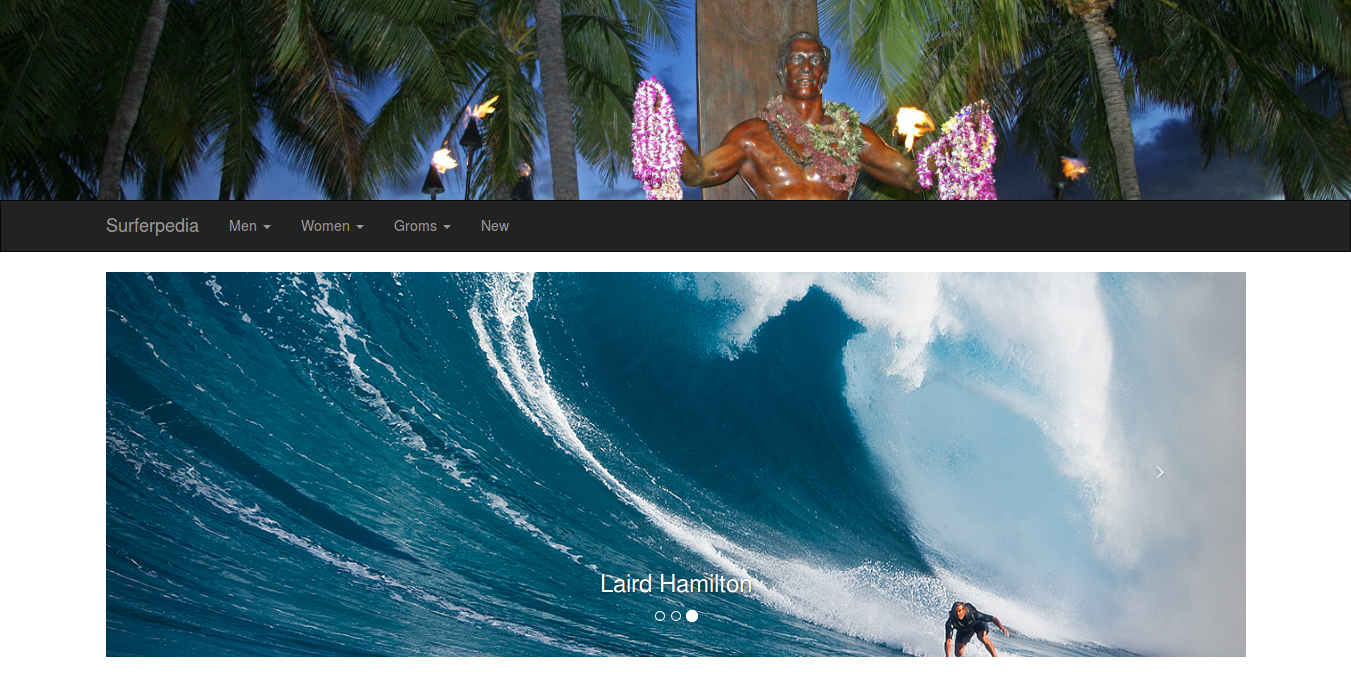
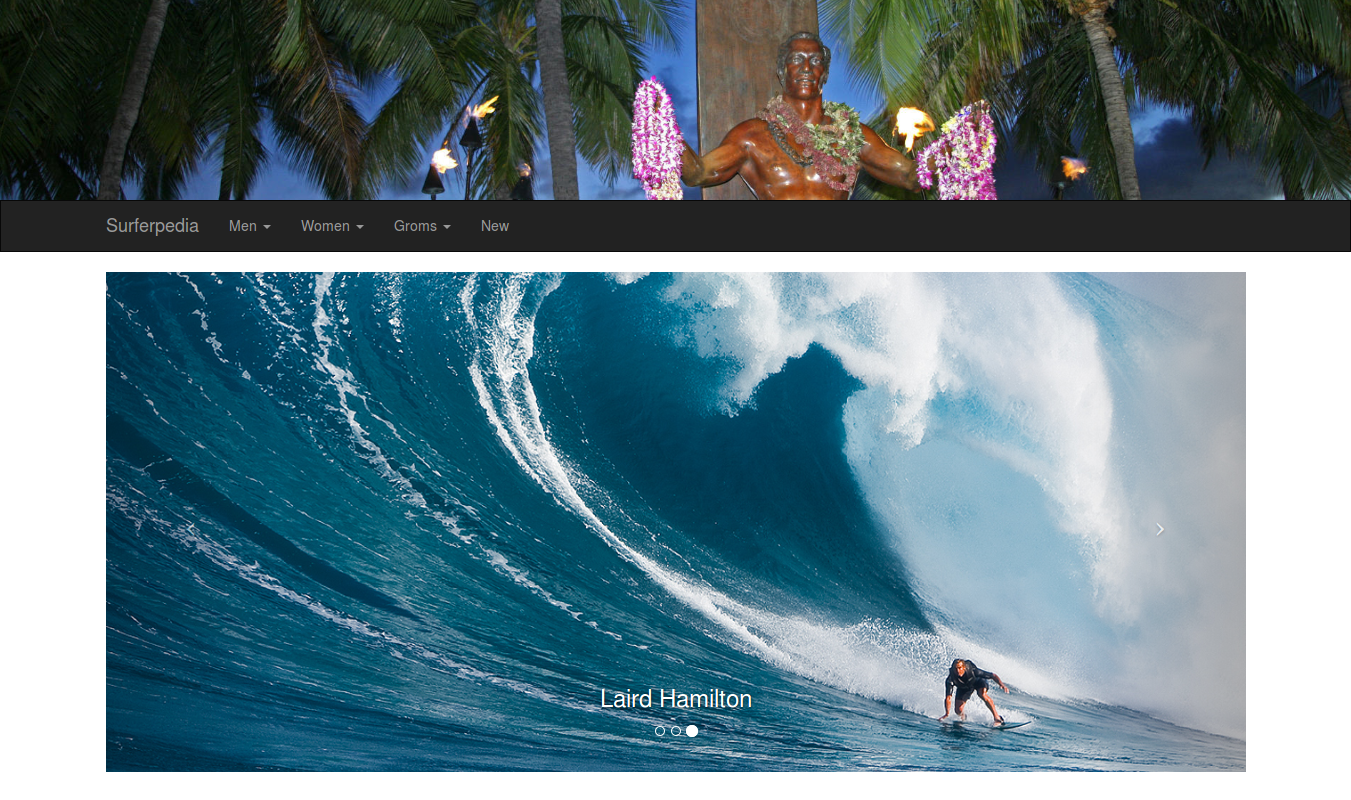
added home image

diff --git a/public/stylesheets/main.css b/public/stylesheets/main.css
@@ -1,5 +1,5 @@
 body {
-  min-height: 700px;
+  min-height: 800px;
 }
 
 .banner {
@@ -15,7 +15,7 @@ body {
 .carousel-image {
   background-size: cover;
   background-position: center;
-  height: 385px;
+  height: 500px;
 }
 
 .bio-image {
